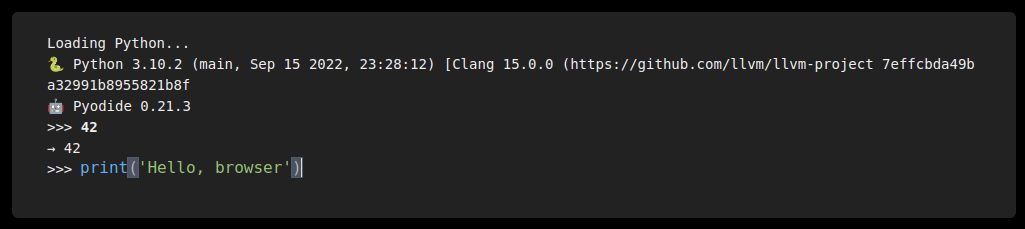
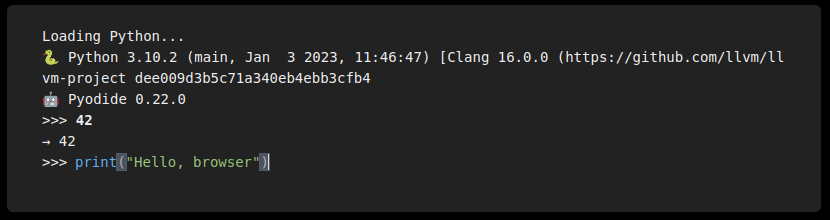
Add frame to screenshots.
Update screenshots to latest state.

diff --git a/src/components/view/MainView.vue b/src/components/view/MainView.vue
@@ -28,8 +28,8 @@
             </p>
             <figure>
                 <a href="/sab/#/code">
-                    <img v-if="!configuration.darkmode" src="/static/gfx/editor.png" alt="Screenshot showing editor doing factorial" />
-                    <img v-if="configuration.darkmode" src="/static/gfx/editor-dark.png" alt="Screenshot showing editor doing factorial" />
+                    <img v-if="!configuration.darkmode" src="/static/gfx/editor.png" alt="Screenshot showing editor with factorial" />
+                    <img v-if="configuration.darkmode" src="/static/gfx/editor-dark.png" alt="Screenshot showing editor with factorial" />
                 </a>
                 <figcaption>Screenshot showing the Python Editor with a simple factorial function.</figcaption>
             </figure>
@@ -46,10 +46,10 @@
                 </p>
                 <li><em>Privacy</em></li>
                 <p>The Python code you run is not being sent to a remote server, it is running privately in your browser.</p>
-                <li><em>Demonstration</em></li>
+                <!-- <li><em>Demonstration</em></li>
                 <p>If you want to show off Python code to demonstrate something, it is convenient to point people to a place where they can see the demonstration
                 immediately without any barriers to getting started.
-                </p>
+                </p> -->
             </ul>
             <p>For more examples of what can be done with the Python Console tools, see the <a href="/sab/#/usage">Usage Hints</a>.
             </p>

diff --git a/src/style.css b/src/style.css
@@ -248,3 +248,8 @@ code {
 div.control, label {
     user-select: none;
 }
+
+figure {
+    border: solid 2px var(--grey-light);
+    border-radius: 4px;
+}
